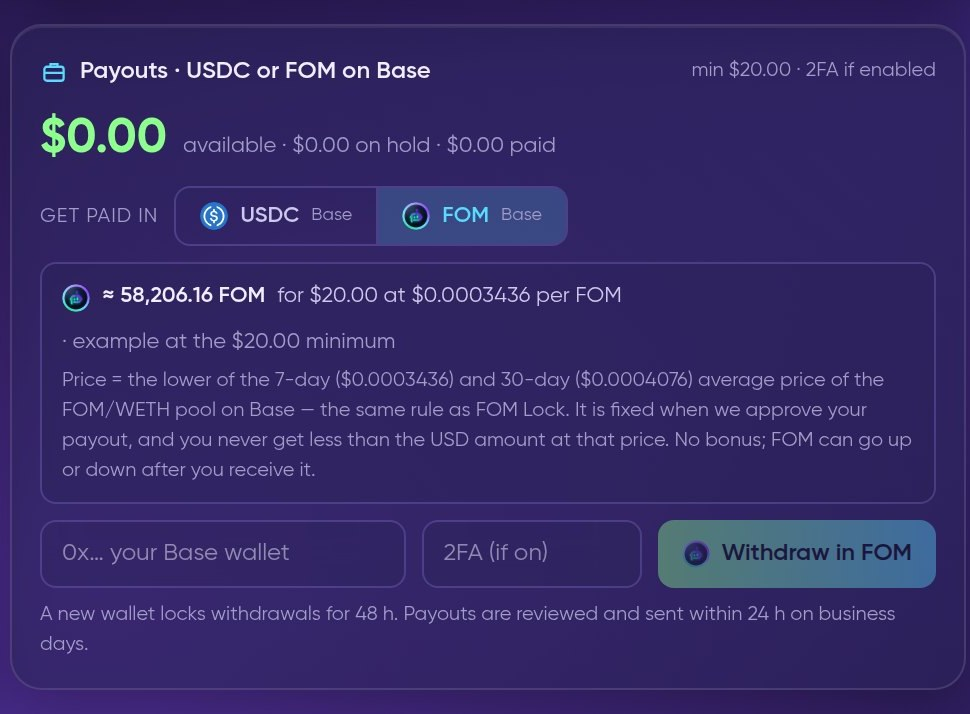
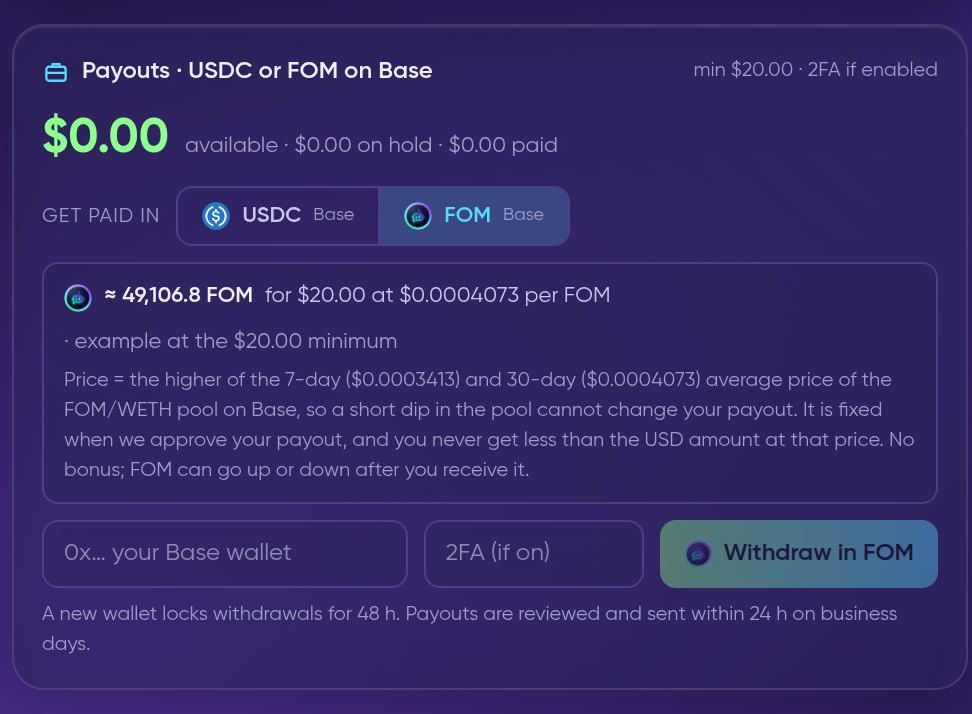
Strategy Lab: FOM author payouts use the HIGHER of the 7-day / 30-day pool TWAP (new screenshot)

diff --git a/strategy-lab.md b/strategy-lab.md
@@ -41,10 +41,10 @@ In the **🛒 Marketplace** you browse Formion catalog strategies, bots and comm
 * Listings can be **free** or **paid**. Paid listings need an approved **Partner** application (KYC) on the **Author** page.
 * Subscribers pay Formion; authors receive their share after a 25% platform fee and a 14-day hold. The Author page shows your subscribers, balance and payout history.
 * **Payouts — USDC or FOM, both on Base.** Request a payout in **Creator Studio** and choose **USDC** or **FOM** (minimum $20 in USD value; one payout covers strategies, bots, indicators and signals). USDT and other networks are not offered.
-* **FOM payouts** use the **lower of the 7-day and 30-day average price (TWAP)** of the FOM/WETH pool on Base — the same rule as FOM Lock. Before you confirm, you see the FOM amount and the price used; the price is **fixed when we approve** your payout, and you never get less than the USD amount at that price. There is no bonus for choosing FOM, and FOM's value can go up or down after you receive it.
+* **FOM payouts** use the **higher of the 7-day and 30-day average price (TWAP)** of the FOM/WETH pool on Base, so a short dip in the pool price cannot change your payout. Before you confirm, you see the FOM amount and the price used; the price is **fixed when we approve** your payout, and you never get less than the USD amount at that price. There is no bonus for choosing FOM, and FOM's value can go up or down after you receive it.
 * An admin sends every payout and the transaction is verified on-chain; you get a Telegram message with the link.
 
-<figure><img src=".gitbook/assets/shot-creator-payout-fom.jpg" alt="Creator Studio payout panel with FOM selected"><figcaption><p>Creator Studio → Payouts: choose USDC or FOM. With FOM you see the FOM amount and the price used (lower of the 7-day and 30-day pool average) before you confirm.</p></figcaption></figure>
+<figure><img src=".gitbook/assets/shot-creator-payout-fom.jpg" alt="Creator Studio payout panel with FOM selected"><figcaption><p>Creator Studio → Payouts: choose USDC or FOM. With FOM you see the FOM amount and the price used (higher of the 7-day and 30-day pool average) before you confirm.</p></figcaption></figure>
 * Check each listing's subscription and checkout terms before subscribing.
 
 {% hint style="warning" %}
